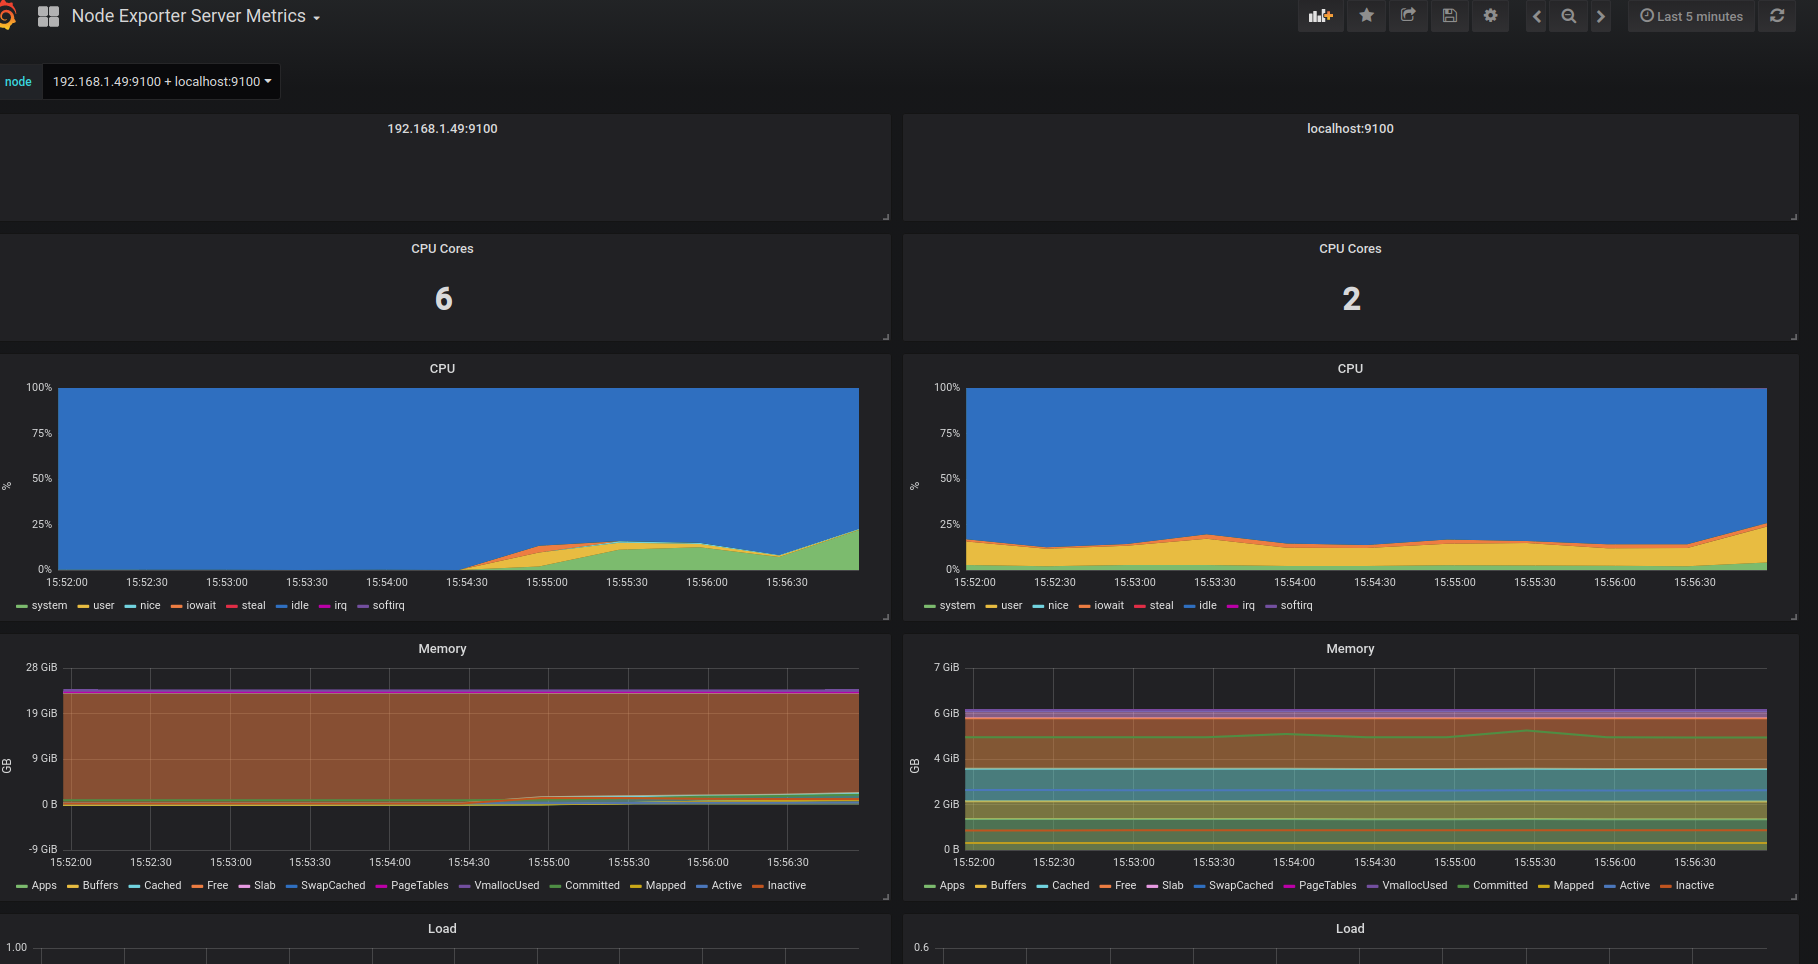
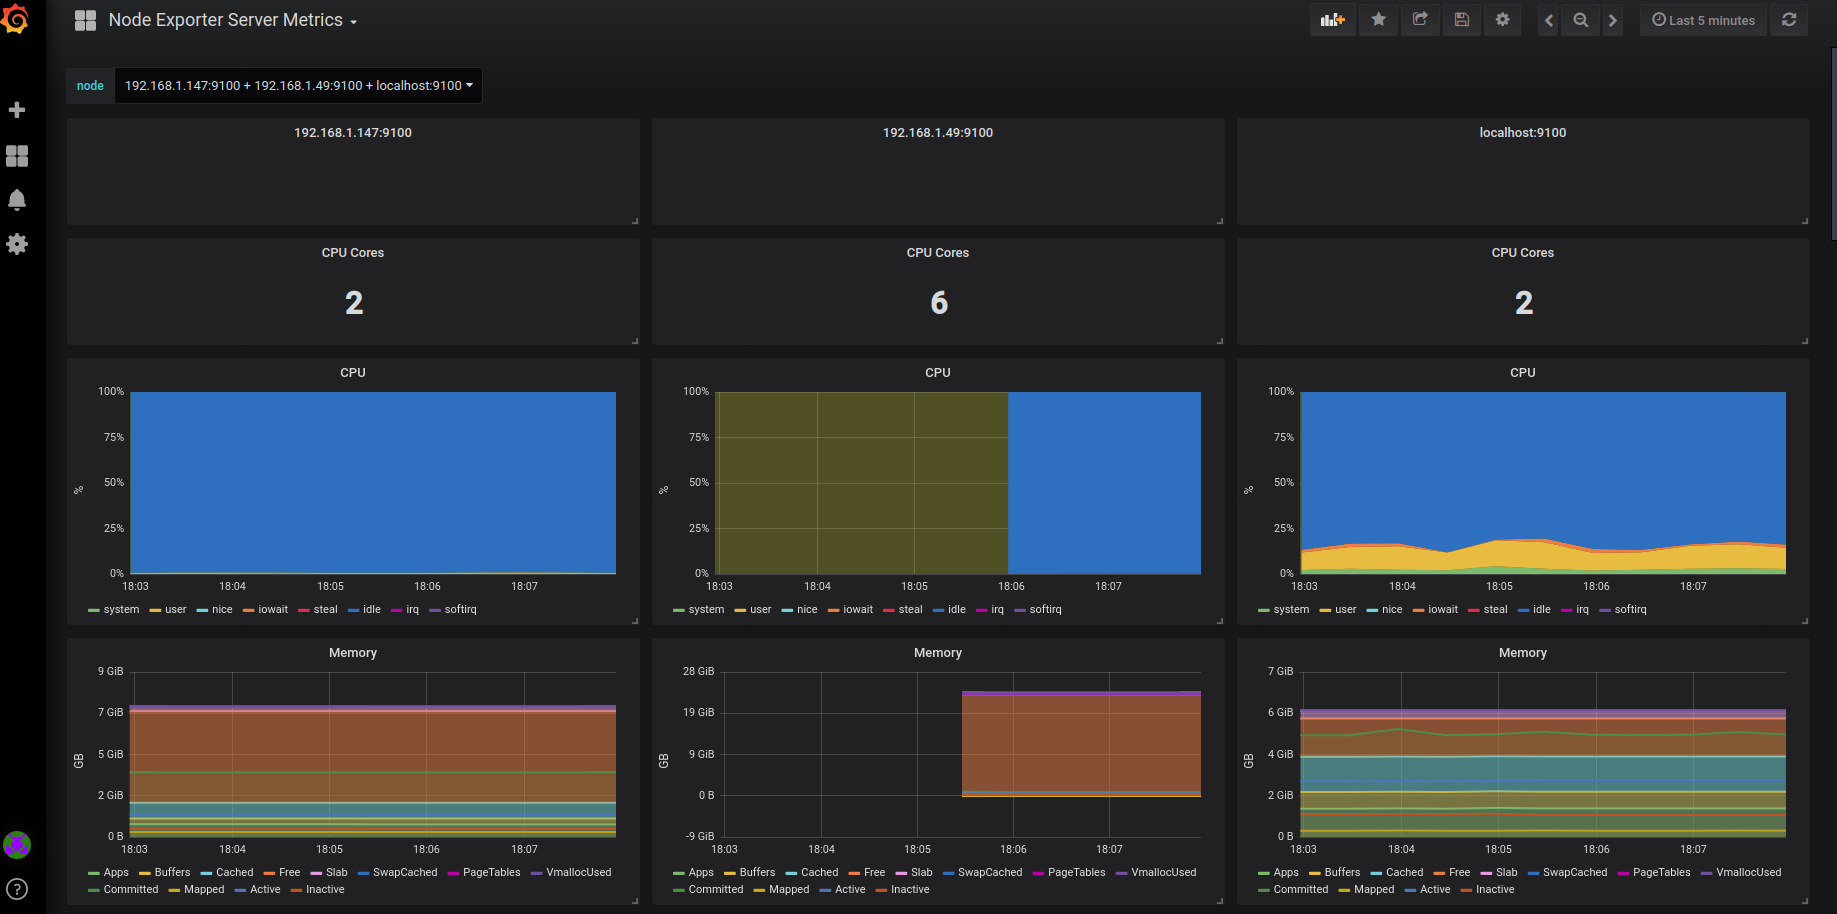
Grafana page

diff --git a/views/grafana.html b/views/grafana.html
@@ -32,43 +32,30 @@
       <div class="col-lg-8">
 
         <!-- Title -->
-        <h1 class="mt-4">Post Title</h1>
+        <h1 class="mt-4">Infrastructure monitoring</h1>
+        <h2><a href="http://grafana.cheapestdomainever.club/"> Login page</a></h2>
 
-        <!-- Author -->
-        <p class="lead">
-          by
-          <a href="#">Start Bootstrap</a>
-        </p>
 
         <hr>
 
-        <!-- Date/Time -->
-        <p>Posted on January 1, 2019 at 12:00 PM</p>
 
+
+        <p class="lead"> In order to monitor health of the Infrastructure I setup grafana dashboards along with prometheus data source. </p>
+        <img class="img-fluid rounded" src="prom_ds.png" style="width:1000px;height:470px;" alt="">
         <hr>
+        <p class="lead"> Bare metal all servers statistics dashboard.</p>
 
         <!-- Preview Image -->
-        <img class="img-fluid rounded" src="http://placehold.it/900x300" alt="">
+        <img class="img-fluid rounded" src="grafana.png" style="width:1000px;height:470px;" alt="">
 
         <hr>
 
         <!-- Post Content -->
-        <p class="lead">Lorem ipsum dolor sit amet, consectetur adipisicing elit. Ducimus, vero, obcaecati, aut, error quam sapiente nemo saepe quibusdam sit excepturi nam quia corporis eligendi eos magni recusandae laborum minus inventore?</p>
 
-        <p>Lorem ipsum dolor sit amet, consectetur adipisicing elit. Ut, tenetur natus doloremque laborum quos iste ipsum rerum obcaecati impedit odit illo dolorum ab tempora nihil dicta earum fugiat. Temporibus, voluptatibus.</p>
+        <p class="lead"> Per-node dashboard. </p>
 
-        <p>Lorem ipsum dolor sit amet, consectetur adipisicing elit. Eos, doloribus, dolorem iusto blanditiis unde eius illum consequuntur neque dicta incidunt ullam ea hic porro optio ratione repellat perspiciatis. Enim, iure!</p>
 
-        <blockquote class="blockquote">
-          <p class="mb-0">Lorem ipsum dolor sit amet, consectetur adipiscing elit. Integer posuere erat a ante.</p>
-          <footer class="blockquote-footer">Someone famous in
-            <cite title="Source Title">Source Title</cite>
-          </footer>
-        </blockquote>
-
-        <p>Lorem ipsum dolor sit amet, consectetur adipisicing elit. Error, nostrum, aliquid, animi, ut quas placeat totam sunt tempora commodi nihil ullam alias modi dicta saepe minima ab quo voluptatem obcaecati?</p>
-
-        <p>Lorem ipsum dolor sit amet, consectetur adipisicing elit. Harum, dolor quis. Sunt, ut, explicabo, aliquam tenetur ratione tempore quidem voluptates cupiditate voluptas illo saepe quaerat numquam recusandae? Qui, necessitatibus, est!</p>
+        <img class="img-fluid rounded" src="graf2.png" style="width:1400px;height:900px;" alt="">
 
         <hr>
 
@@ -77,4 +64,3 @@
 </div>
 </body>
 </html>
-

diff --git a/views/nodejs_blogapp.html b/views/nodejs_blogapp.html
@@ -89,7 +89,7 @@
         <hr>
 
 
-        <p class="lead"> The script filters the container ID by the tag name and removes it. New one is built instead. The connections are handled by the <a href="#"> reverse proxy </a></p>
+        <p class="lead"> The script filters the container ID by the tag name and removes it. New one is built instead. The connections are handled by the <a href="/rvproxy"> reverse proxy </a></p>
 
         <hr>
 <br>
